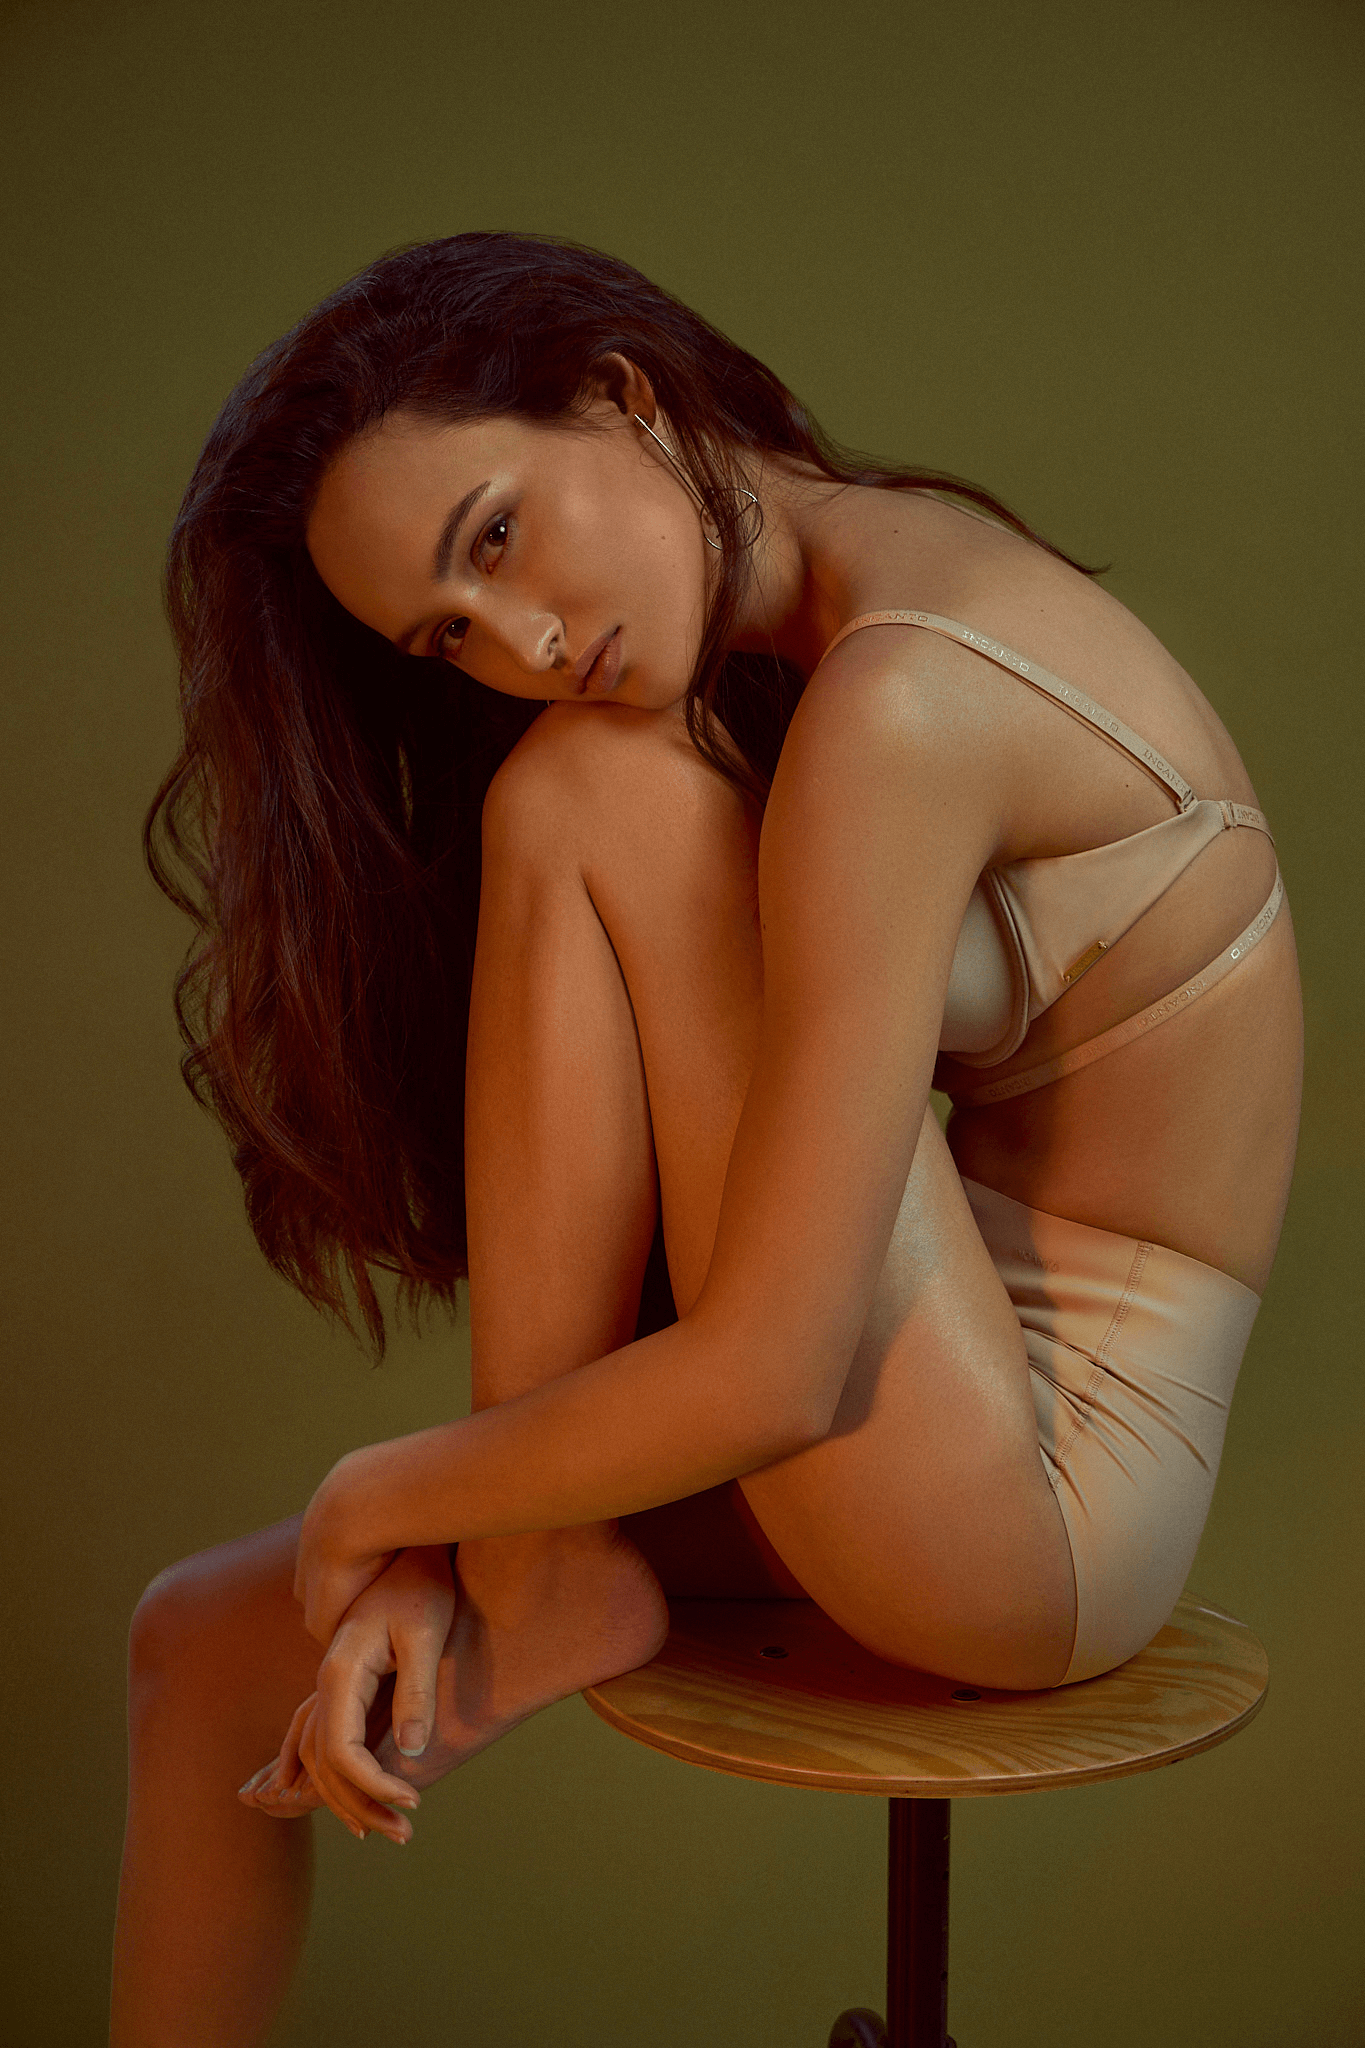
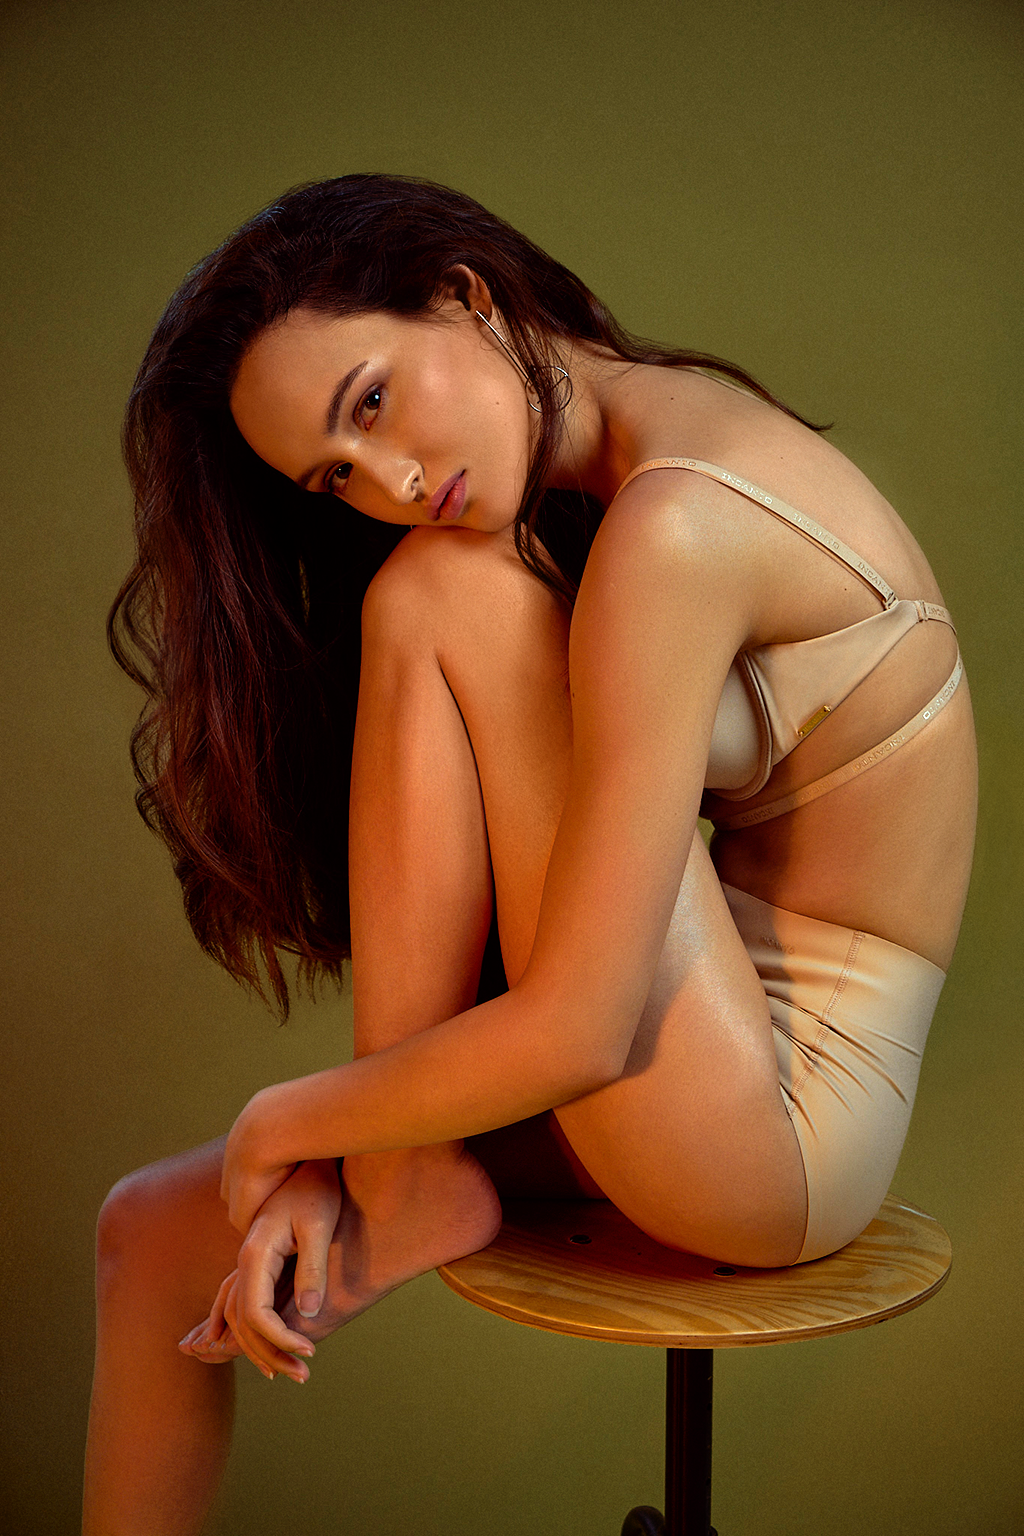
update images

diff --git a/src/components/ProjectItem.vue b/src/components/ProjectItem.vue
@@ -40,10 +40,12 @@ import portraitAfter from '../assets/images/PortraitAfter.jpg';
 import portraitBefore from '../assets/images/PortraitBefore.jpg';
 import bagBefore from '../assets/images/Bag-before.jpeg';
 import bagAfter from '../assets/images/Bag.jpeg';
-import sashaBefore from '../assets/images/SashaOriginal.png';
-import sashaAfter from '../assets/images/SashaRetouchedFinal.png';
+import sashaBefore from '../assets/images/SashaOriginal.jpg';
+import sashaAfter from '../assets/images/SashaRetouched.png';
 import DetailsAfter from '../assets/images/DetailsAfter1.png';
 import DetailsBefore from '../assets/images/DetailsBefore.jpg';
+import BeautyAfter from '../assets/images/BeautyAfter.png';
+import BeautyBefore from '../assets/images/BeautyBefore.jpg';
 
 export default {
    data() {
@@ -89,6 +91,11 @@ export default {
             images: [
                 DetailsBefore,
                 DetailsAfter
+            ]},
+            {id: 9,
+            images: [
+                BeautyBefore,
+                BeautyAfter
             ]},
         ],
         currentId: 1

diff --git a/tailwind.config.js b/tailwind.config.js
@@ -10,8 +10,9 @@ module.exports = {
             'Chanelretoched': "url('/src/assets/images/Chanelretoched.png')",
             'PortraitAfter': "url('/src/assets/images/PortraitAfter.jpg')",
             'bag': "url('/src/assets/images/Bag.jpeg')",
-            'sasha': "url('/src/assets/images/SashaRetouchedFinal.png')",
-            'detailsAfter': "url('/src/assets/images/DetailsAfter.png')"
+            'sasha': "url('/src/assets/images/SashaRetouched.png')",
+            'detailsAfter': "url('/src/assets/images/DetailsAfter.png')",
+            'Beauty': "url('/src/assets/images/BeautyAfter.png')"
           }),
           display: ["group-hover"]
         },

diff --git a/src/views/AboutView.vue b/src/views/AboutView.vue
@@ -1,8 +1,8 @@
 <script>
 import profileImage from '../assets/images/profile-image.png';
 import childIcecream from '../assets/images/child-icecream.png';
-import sasha from '../assets/images/SashaRetouchedFinal.png';
-import sasha2 from '../assets/images/Изображение.png';
+import sasha from '../assets/images/SashaRetouched.png';
+import sasha2 from '../assets/images/Изображение.jpg';
 import colin from '../assets/images/colin.png';
 import sunset from '../assets/images/sunset-paris.png';
 import skills from '../assets/images/skills.png';

diff --git a/src/assets/images/tailwind.config.js b/src/assets/images/tailwind.config.js
@@ -10,7 +10,7 @@ module.exports = {
             'Chanelretoched': "url('/src/assets/images/Chanelretoched.png')",
             'PortraitAfter': "url('/src/assets/images/PortraitAfter.jpg')",
             'bag': "url('/src/assets/images/Bag.jpeg')",
-            'sasha': "url('/src/assets/images/SashaRetouchedFinal.png')",
+            'sasha': "url('/src/assets/images/SashaRetouched.png')",
             'detailsAfter': "url('/src/assets/images/DetailsAfter.png')"
           }),
           display: ["group-hover"]

diff --git a/src/views/HomeView.vue b/src/views/HomeView.vue
@@ -28,7 +28,8 @@ export default {
         'bg-PortraitAfter',
         'bg-bag',
         'bg-sasha',
-        'bg-detailsAfter'
+        'bg-detailsAfter',
+        'bg-Beauty'
       ]
     }
   }
